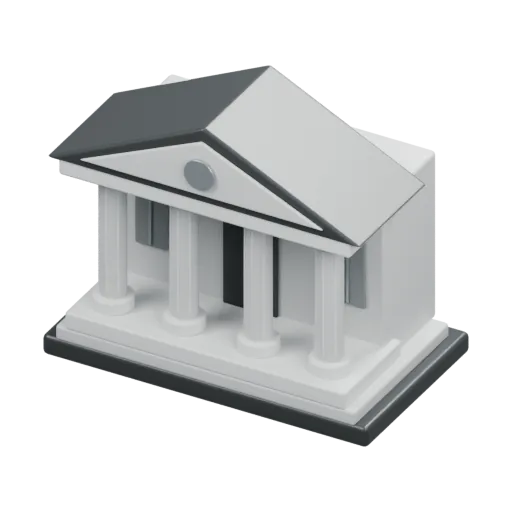
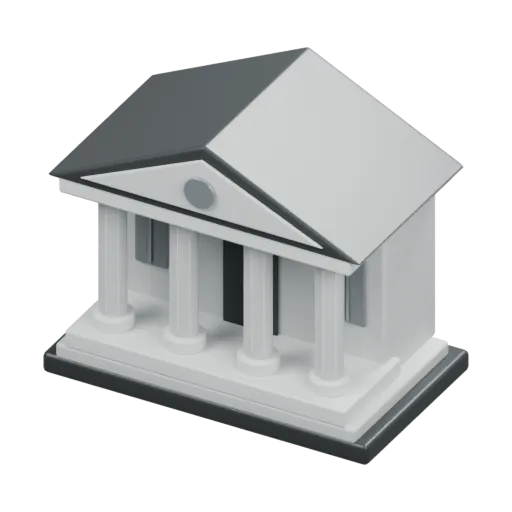
Clarify the data story and refine scene transitions

diff --git a/src/data/data-web.ts b/src/data/data-web.ts
@@ -3,7 +3,7 @@ import type { PlatePart } from "@/data/target-plate"
 
 // "What happens to your data", told as one thread in five short steps: an
 // invented customer, Max, leaves his data with an exchange, a tax tool and
-// a hardware wallet shop; the exchange reports him to the tax office every
+// a hardware wallet maker; the exchange reports him to the tax office every
 // year; every one of these kinds of place has lost such data in real
 // cases, and each leak fills in a part of a target list at the offenders,
 // with Max at number 07; the list leads to his bedroom, where his savings
@@ -61,7 +61,7 @@ export const nodes: Node[] = [
   },
   {
     id: "shop",
-    name: { de: "Wallet-Shop", en: "Wallet shop" },
+    name: { de: "Wallet-Hersteller", en: "Wallet maker" },
     scene: 0,
     order: 3,
     holds: { de: "Wohnadresse", en: "Home address" },
@@ -96,57 +96,56 @@ export interface Scene {
   // The scene's name on the timeline.
   short: Text
   heading: Text
-  // One line at most. One key phrase may be marked with **…**; the page
+  // A short caption. One key phrase may be marked with **…**; the page
   // sets it in bold.
   text: Text
   // A shorter text for phones, where the caption shares the screen with
-  // the network: two lines at most, in the same style as text.
+  // the network, in the same style as text.
   brief?: Text
 }
 
+// The tax tool combines the accounts a user imports (not just one exchange):
+// https://help.waltio.com/en/articles/3633362-getting-started-on-waltio
+// Report deletion: § 20(4) Krypto-MPfG; other customer records: § 21 FM-GwG.
 export const scenes: Scene[] = [
   {
     id: "konto",
     short: { de: "Deine Daten", en: "Your data" },
     heading: {
-      de: "Deine Daten liegen an vielen Stellen.",
-      en: "Your data sits in many places.",
+      de: "Deine Daten liegen an immer mehr Stellen.",
+      en: "Your data ends up in more and more places.",
     },
     text: {
-      de: "Die Börse kennt Ausweis und jede Transaktion, das Steuertool deine Bestände, der Wallet-Shop deine Wohnadresse.",
-      en: "The exchange knows your ID and every transaction, the tax tool your holdings, the wallet shop your home address.",
-    },
-    brief: {
-      de: "Börse, Steuertool, Wallet-Shop: **Jede Stelle kennt einen Teil.**",
-      en: "Exchange, tax tool, wallet shop: **each knows a part.**",
+      de: "Börse: Ausweis und Geschäfte. Wallet-Hersteller: Lieferanschrift beim Gerätekauf. Steuertool: Daten mehrerer Börsen und Wallets. **Nicht jeden Empfänger wählst du selbst.**",
+      en: "Exchange: ID and trades. Wallet maker: delivery address when you order a device. Tax tool: data from multiple exchanges and wallets. **You do not choose every recipient.**",
     },
   },
   {
     id: "staat",
     short: { de: "Finanzamt", en: "Tax office" },
     heading: {
-      de: "Ab 2027 meldet dich die Börse jedes Jahr.",
-      en: "From 2027, the exchange reports you every year.",
+      de: "Ab 2027 meldet dich die Börse jedes Jahr automatisch.",
+      en: "From 2027, the exchange reports you automatically every year.",
     },
     text: {
-      de: "Ans Finanzamt, ohne Wallet-Adressen. **Jede Meldung bleibt zehn Jahre bei der Börse.**",
-      en: "To the tax office, without wallet addresses. **Each report stays with the exchange for ten years.**",
+      de: "Ans Finanzamt, ohne Wallet-Adressen. **Die Börse muss die Meldedaten zehn Jahre nach dem betreffenden Kalenderjahr löschen.** Andere Kundenunterlagen können länger bleiben.",
+      en: "To the tax office, without wallet addresses. **The exchange must delete the reported data ten years after the calendar year it covers.** Other customer records may remain longer.",
     },
     brief: {
-      de: "Ohne Wallet-Adressen. **Die Börse hebt jede Meldung zehn Jahre auf.**",
-      en: "Without wallet addresses. **The exchange keeps each report for ten years.**",
+      de: "Ohne Wallet-Adressen. **Meldedaten: Löschung nach zehn Jahren.** Andere Kundenunterlagen können länger bleiben.",
+      en: "Without wallet addresses. **Reported data: deleted after ten years.** Other customer records may remain longer.",
     },
   },
   {
     id: "lecks",
     short: { de: "Datenlecks", en: "Leaks" },
     heading: {
-      de: "Gespeichert. Gehackt. Verkauft.",
-      en: "Stored. Hacked. Sold.",
+      de: "Gespeichert, gehackt und verkauft.",
+      en: "Stored, hacked and sold.",
     },
     text: {
-      de: "Börsen, Steuertools, Wallet-Shops und Finanzverwaltungen haben solche Daten schon verloren. **Ein Datenleck nimmt nichts weg, es kopiert.**",
-      en: "Exchanges, tax tools, wallet shops and tax administrations have lost such data before. **A data leak takes nothing away; it copies.**",
+      de: "Börsen, Steuertools, Wallet-Hersteller und Finanzverwaltungen haben solche Daten schon verloren. **Ein Datenleck nimmt nichts weg, es kopiert.**",
+      en: "Exchanges, tax tools, wallet makers and tax administrations have lost such data before. **A data leak takes nothing away; it copies.**",
     },
     brief: {
       de: "**Ein Datenleck nimmt nichts weg, es kopiert.**",
@@ -157,8 +156,8 @@ export const scenes: Scene[] = [
     id: "liste",
     short: { de: "Zielliste", en: "Target list" },
     heading: {
-      de: "Aus den Datenlecks wird eine Zielliste.",
-      en: "The leaks become a target list.",
+      de: "Aus den Daten wird eine Zielliste.",
+      en: "The data becomes a target list.",
     },
     text: {
       de: "Sortiert nach Bestand, mit Wohnadresse.",
@@ -169,8 +168,8 @@ export const scenes: Scene[] = [
     id: "risiko",
     short: { de: "Zuhause", en: "At home" },
     heading: {
-      de: "Dein Profil. Deine Wohnadresse. Ein Angriffsziel.",
-      en: "Your profile. Your home address. A target.",
+      de: "Dein Profil wird zum Angriffsziel.",
+      en: "Your profile becomes a target.",
     },
     text: {
       de: "Bitcoin in der eigenen Wallet ist wie Bargeld daheim: deine Sache. **Gefährlich wird es, wenn eine Liste verrät, wer wie viel hat.**",
@@ -185,7 +184,7 @@ export const scenes: Scene[] = [
 
 // The reports pile up at the exchange: one card a year while the tax
 // office scene plays. The first report goes out in 2027 (for 2026), and
-// each is kept ten years after its reporting year (§ 20 Abs. 4
+// each is deleted ten years after the calendar year it covers (§ 20 Abs. 4
 // Krypto-MPfG), so a customer who stays has ten on file from 2036 on.
 export const reports = {
   first: 2027,
